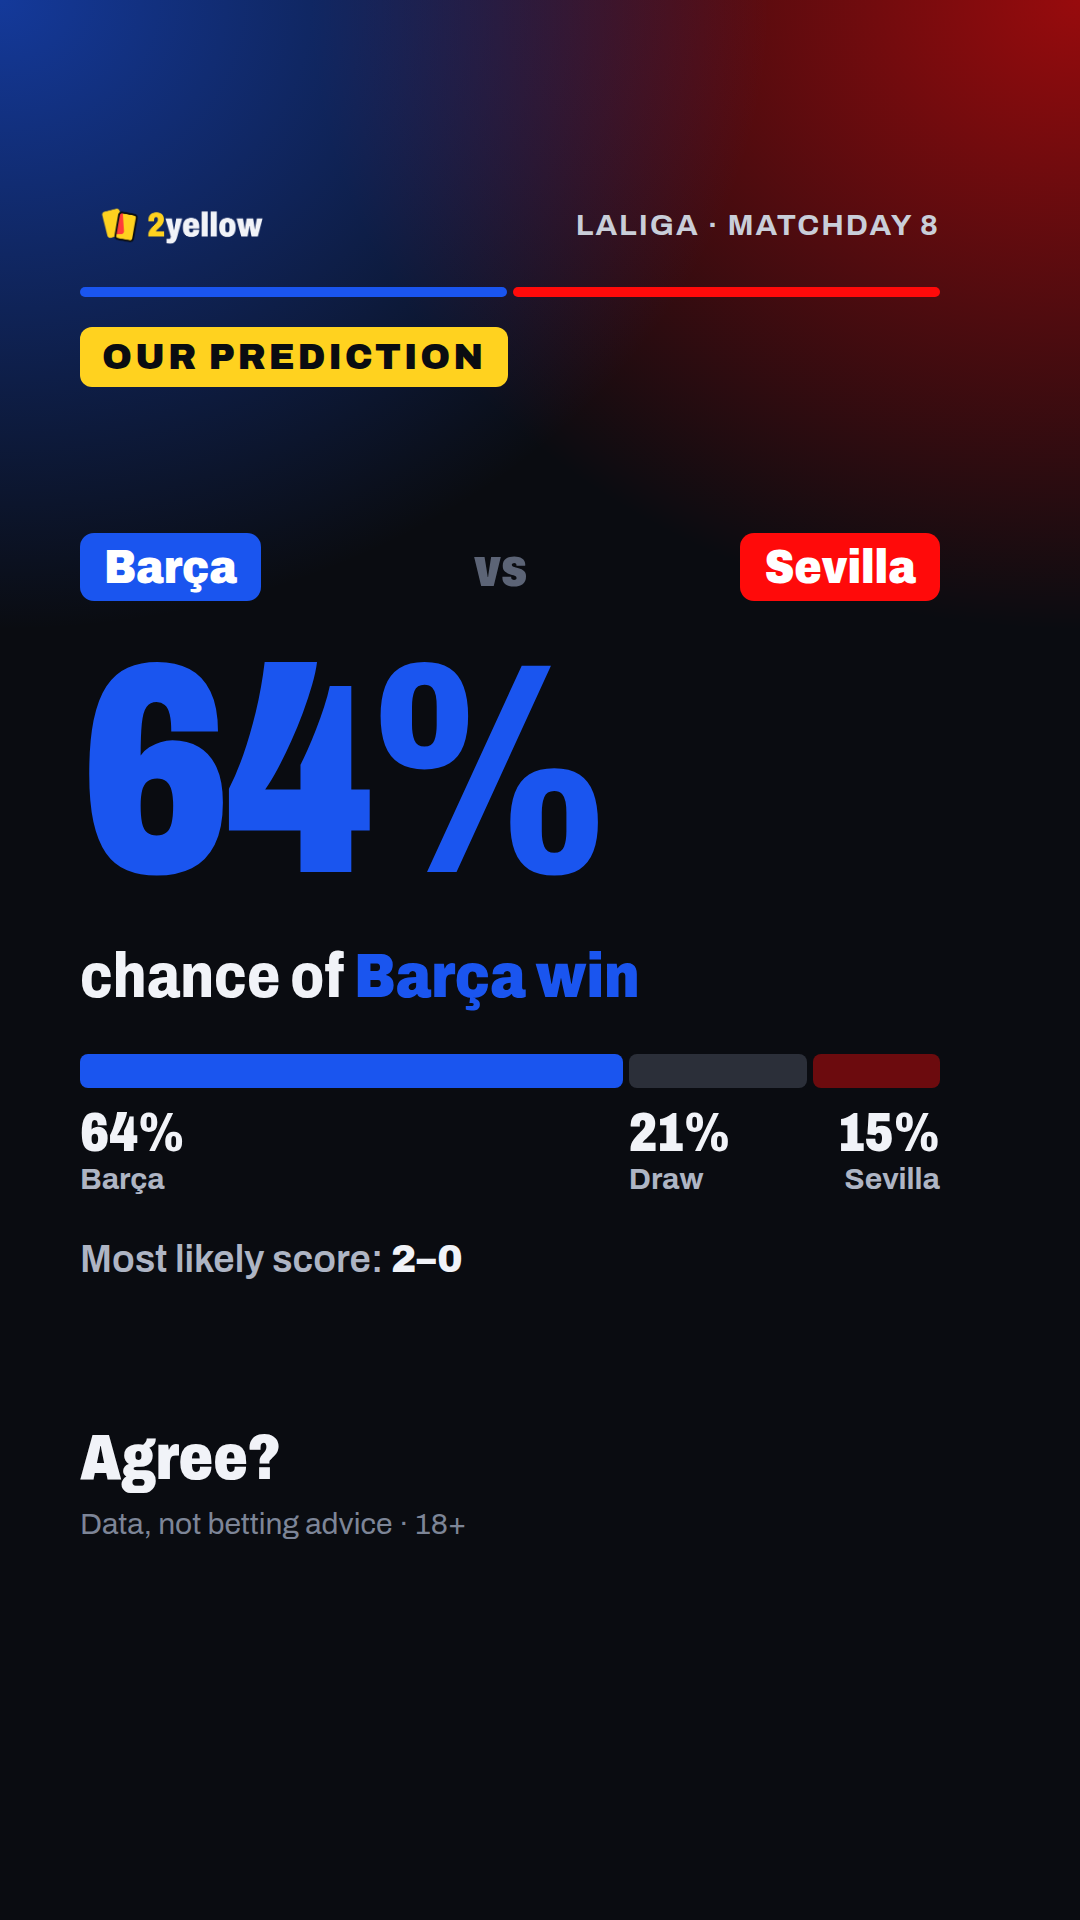
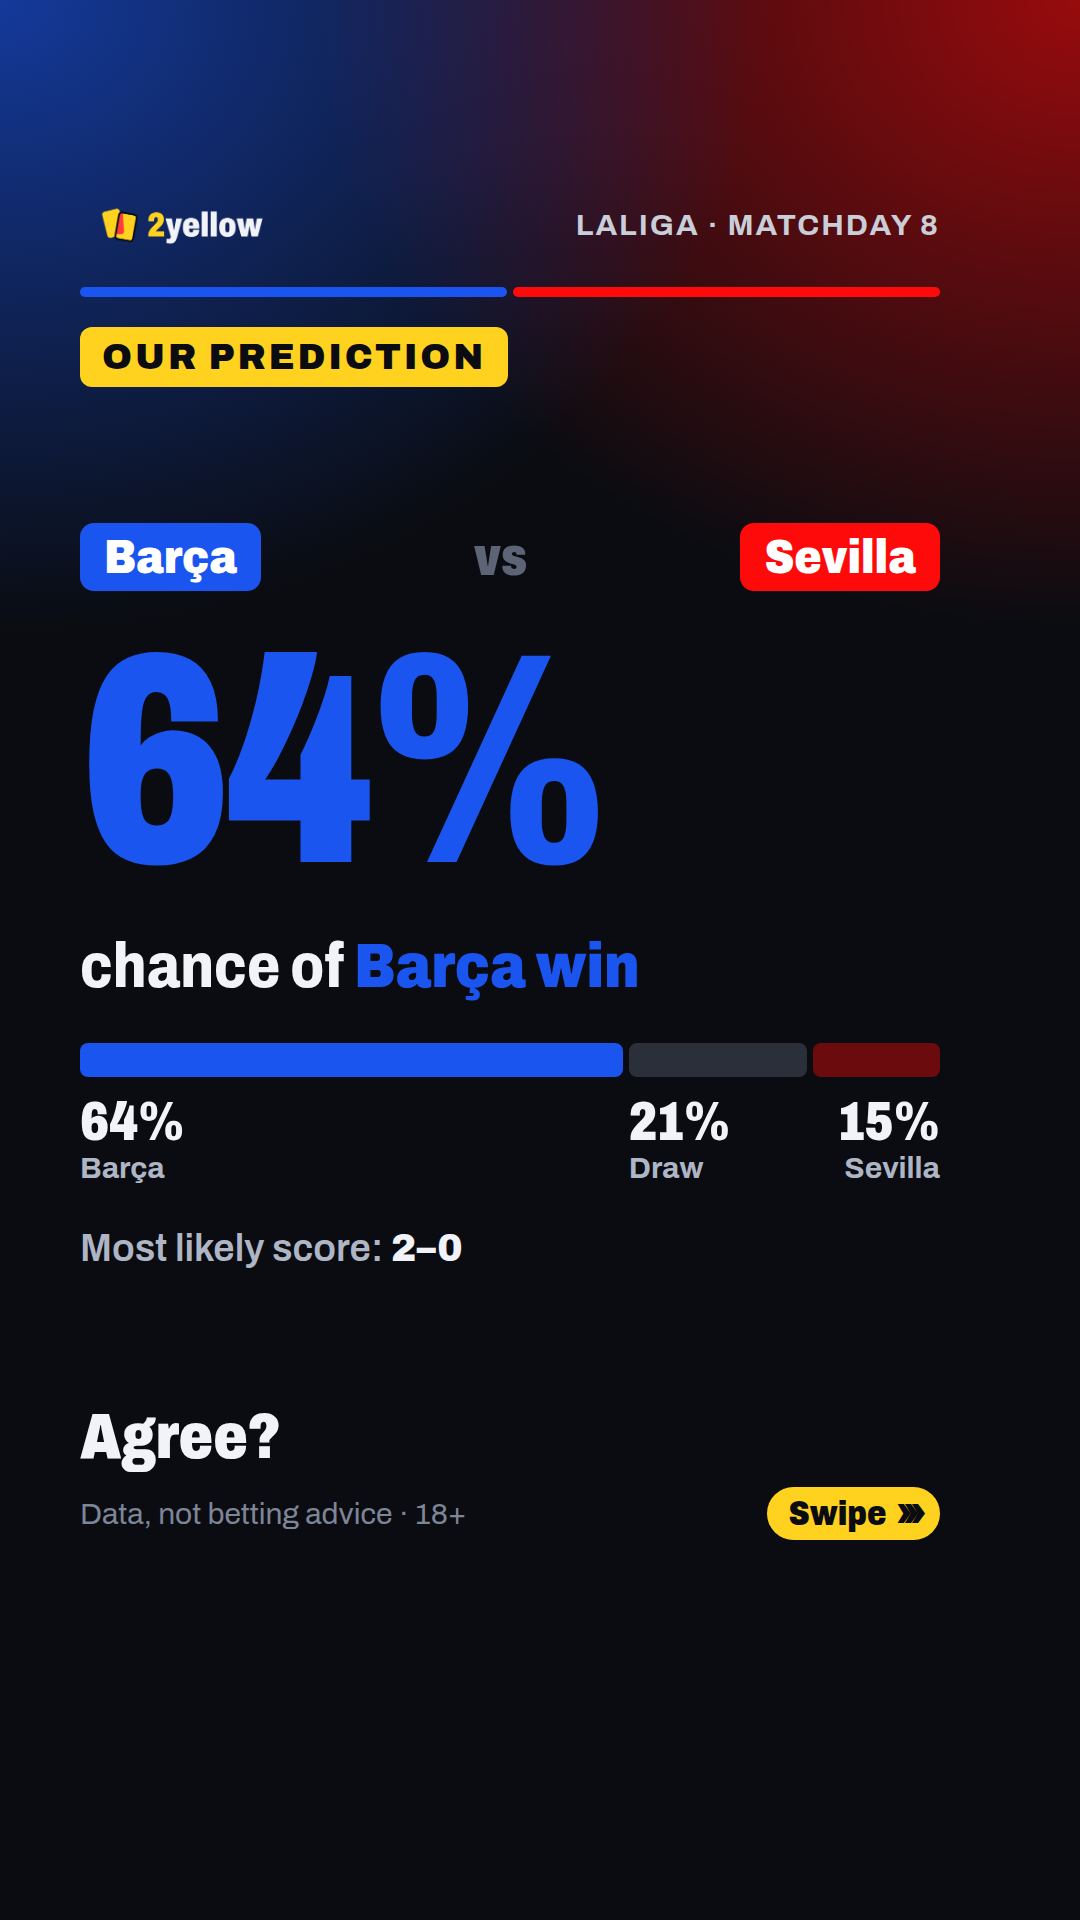
redes: aviso Swipe en las plantillas 1-5
Claude-Session: https://claude.ai/code/session_018MeJsYiHkoQJUMr9duRCps

diff --git a/redes/plantillas/generar.py b/redes/plantillas/generar.py
@@ -124,7 +124,15 @@ def pagina(d, kicker, cuerpo, pregunta):
             f'<div style="flex:1;border-radius:5px;background:{a["c"]}"></div></div>'
             f'<div class="kick">{e(kicker)}</div><div class="cuerpo">{cuerpo}</div>'
             f'<div class="q">{e(d.get("question", pregunta))}</div>'
-            f'<div class="pie">{e(pie)}</div></div></div></body></html>')
+            f'<div class="pie" style="display:flex;justify-content:space-between;align-items:center"><span>{e(pie)}</span>'
+            f'{SWIPE if d["template"] not in SIN_SWIPE and d.get("swipe", True) else ""}</div></div></div></body></html>')
+
+
+# Aviso de "hay más": en todas menos en la última del carrusel y en las del perfil.
+SIN_SWIPE = {"follow", "our_calls", "picks_list"}
+SWIPE = (f'<span style="display:inline-flex;align-items:center;gap:10px;background:{AMARILLO};color:{NOCHE};'
+         f'border-radius:999px;padding:8px 22px;font-size:34px;font-weight:900;font-stretch:85%">Swipe'
+         f'<span style="font-size:46px;line-height:.6;letter-spacing:-8px">&#8250;&#8250;&#8250;</span></span>')
 
 
 def vs(h, a, centro='<span class="disp" style="font-size:56px;color:#5C6476">vs</span>', peq=False):

diff --git a/BITACORA.md b/BITACORA.md
@@ -25,6 +25,7 @@ Dónde está cada cosa:
 
 | qué | por qué | ficheros |
 |---|---|---|
+| Plantillas 1-5 (previo y post): botón amarillo "Swipe ›››" abajo a la derecha, junto al pie 18+, dentro de la zona segura. No va en la 6ª ni en las del perfil (`SIN_SWIPE`). | Petición del usuario: que se vea que hay que deslizar a la siguiente. | `redes/plantillas/generar.py` |
 | `datos_selecciones.py hoy`: solo probabilidades de NUESTRO modelo (`mod_*`), nada del mercado; las cuotas solo filtran lo trivial (mediana >= 1.44, mejor >= 1.50). Córners fuera: Brier del modelo 0.27/0.25, igual o peor que decir 50 %. Lista del 05/10 rehecha y la 6ª tapa ahora el 62 % (menos de 3.5) de France-Belgium. | El usuario: la lista del otro chat era en realidad el mercado (pesos 0 en pesos_mezcla.json); en redes, solo nuestro modelo. | `redes/plantillas/` |
 | `datos_selecciones.py hoy <fecha>`: saca sola la lista del día como el chat de la Nations League (mezcla modelo/mercado de `pesos_mezcla.json`, solo mercados medidos sin tarjetas, cuota mediana >= 1.44 y mejor >= 1.50; lee registro y cuotas de origin/main). Con los datos del 05/10 reproduce 7 de 8 iguales; Rumanía-Suecia empata a 63 % entre menos de 9.5 córners y menos de 3.5 goles (en la imagen de hoy, la del otro chat). | El usuario no quiere rellenar nada; la lista sale de su otro chat con el mismo repo. | `redes/plantillas/datos_selecciones.py` |
 | Plantilla "picks_list": todos los pronósticos del día en una imagen (hora, partido con colores, elección y %). Primera: las 8 de la Nations League del 05/10 que pasó el usuario (horas pasadas a la española, sin cuotas). Las 6ª de hoy tapan ahora el France-Belgium de esa lista (más de 2.5, 64 %). | Destino del swipe de la 6ª. | `redes/plantillas/` |
